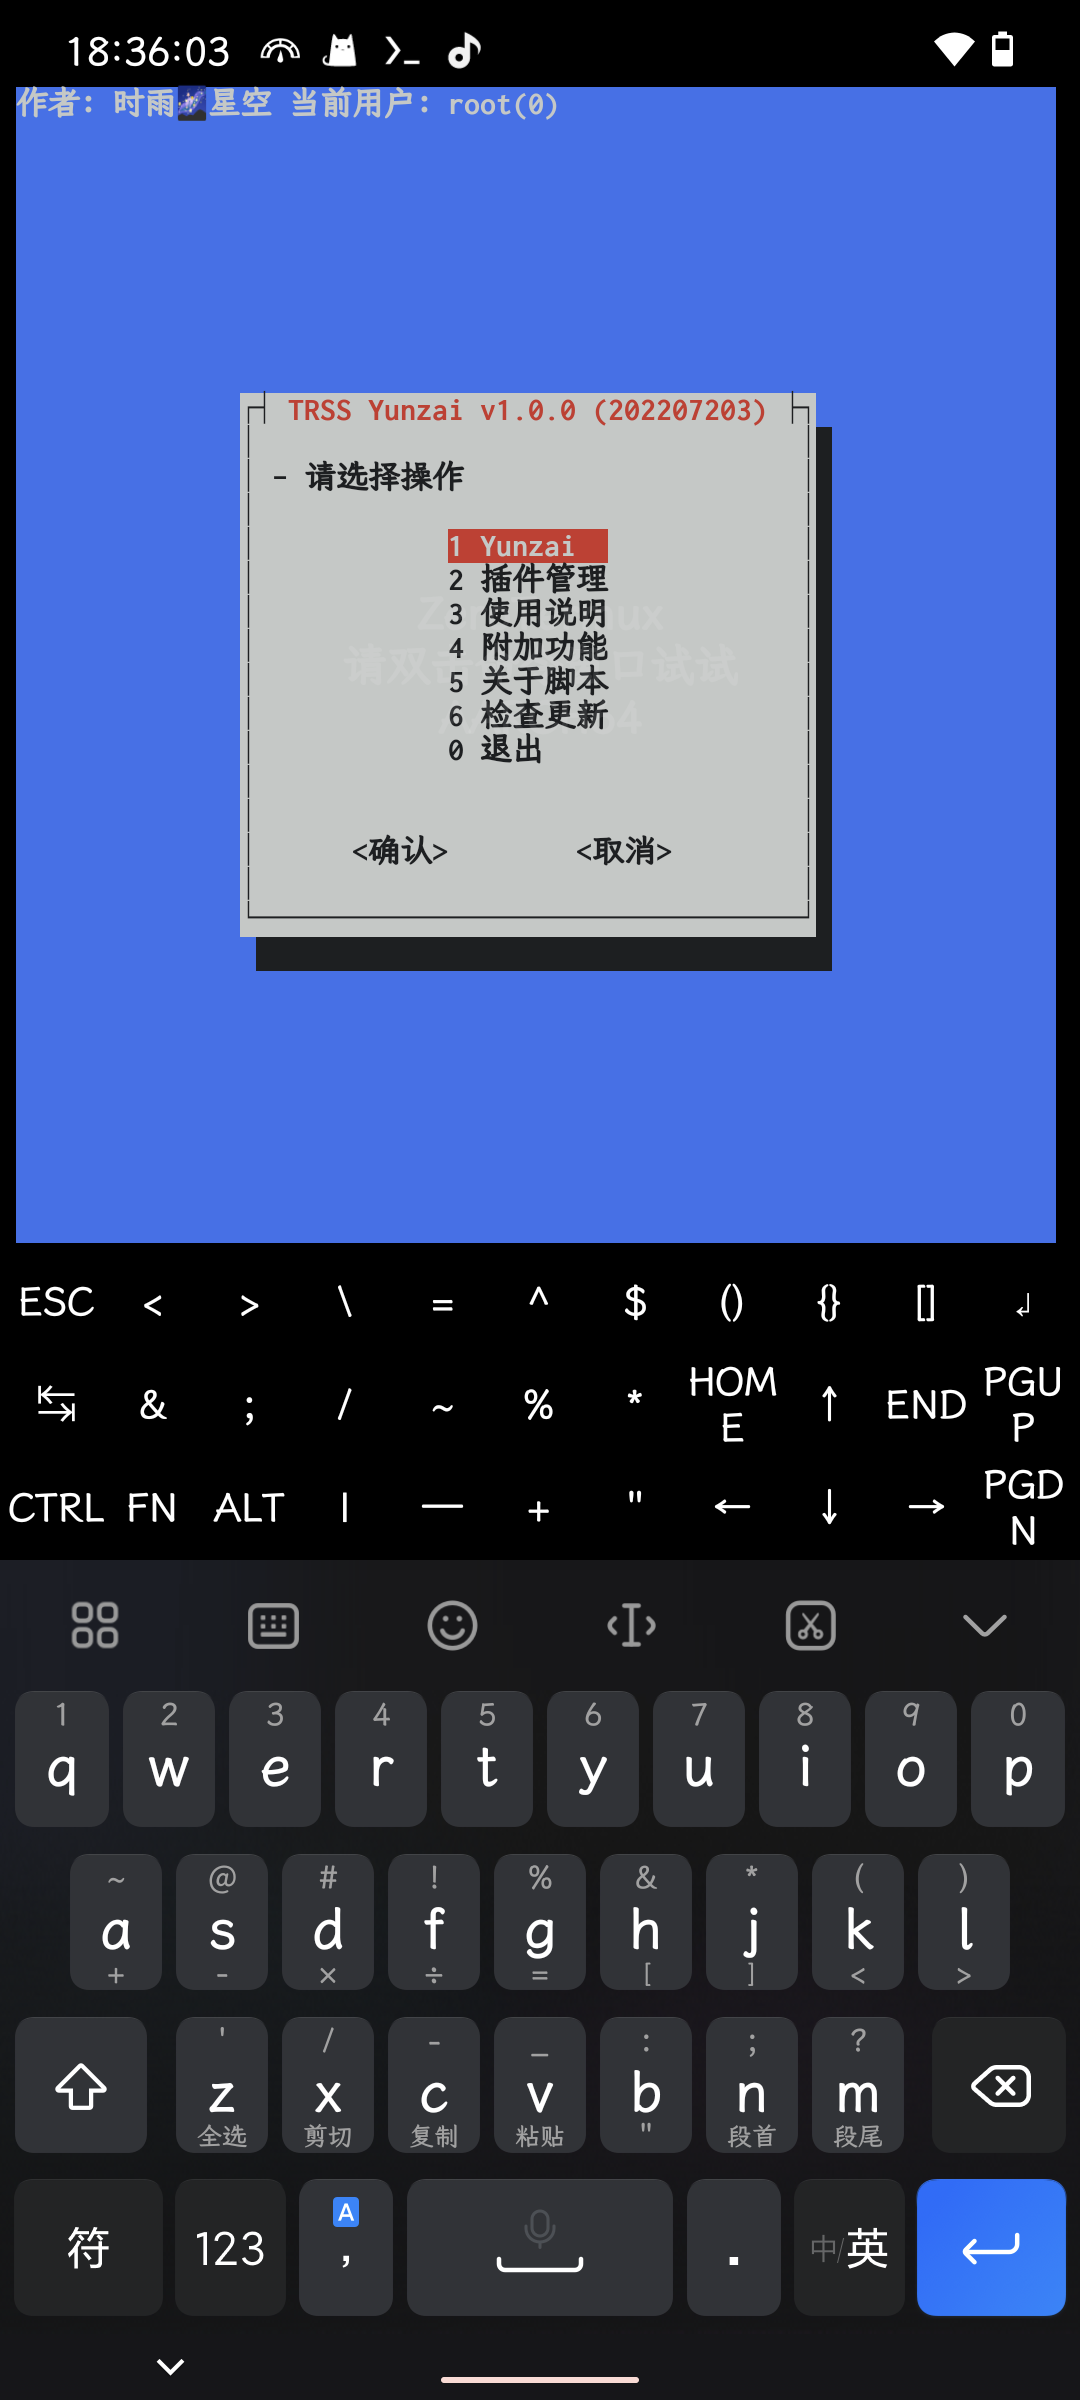
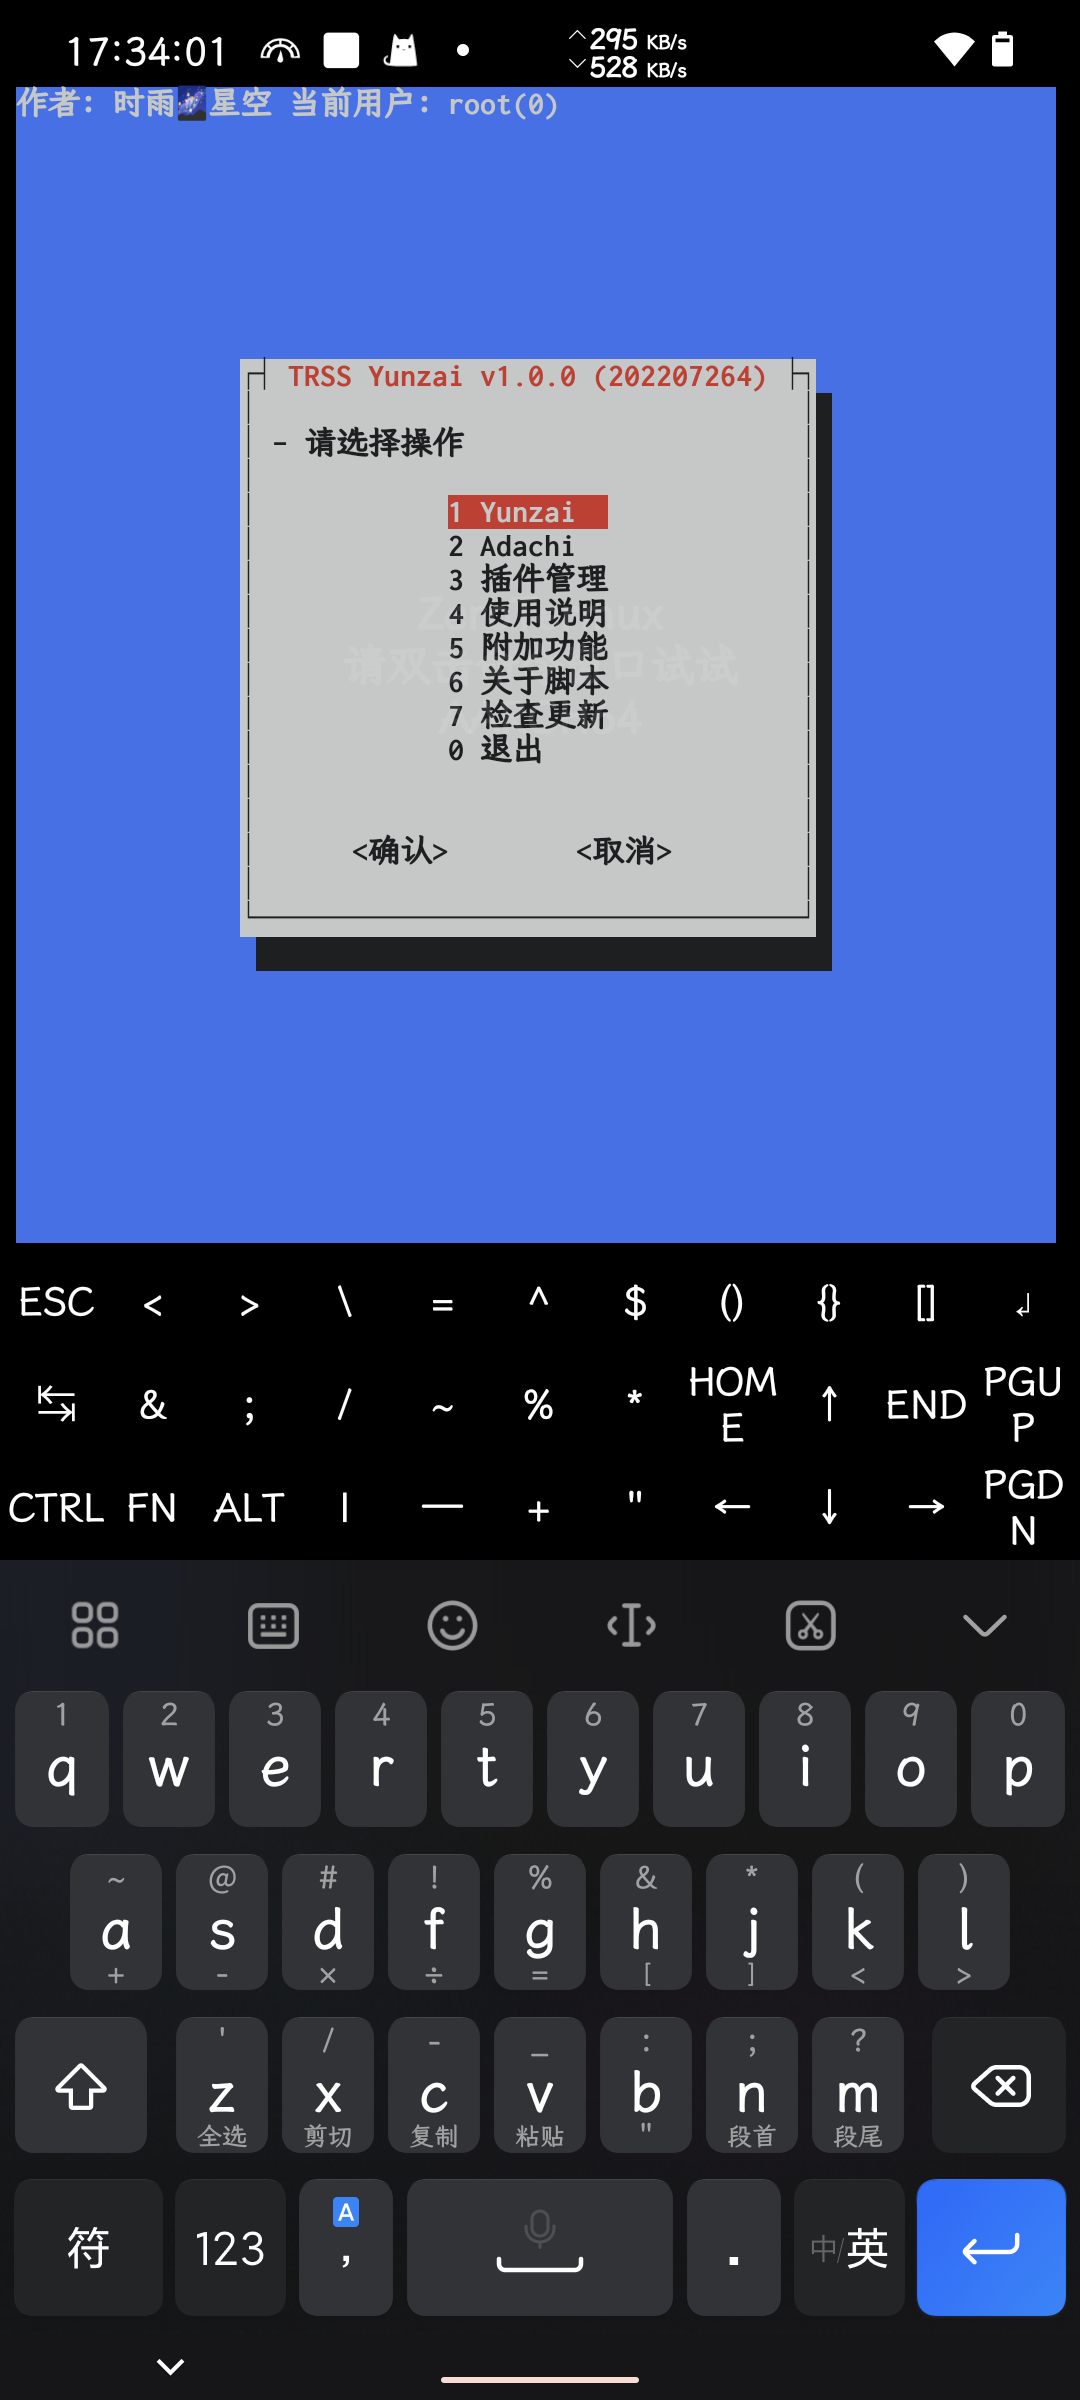
更新说明

diff --git a/README.md b/README.md
@@ -53,6 +53,7 @@ curl -LO "https://gitee.com/TimeRainStarSky/TRSS_Yunzai/raw/main/Install.sh" && 
 [![主界面](https://cdn.jsdelivr.net/gh/TimeRainStarSky/TRSS_Yunzai@main/Picture/Main.png)](https://github.com/TimeRainStarSky/TRSS_Yunzai)
 [![Yunzai2](https://cdn.jsdelivr.net/gh/TimeRainStarSky/TRSS_Yunzai@main/Picture/Yunzai2.png)](https://github.com/TimeRainStarSky/Yunzai-Bot-2)
 [![Yunzai3](https://cdn.jsdelivr.net/gh/TimeRainStarSky/TRSS_Yunzai@main/Picture/Yunzai3.png)](https://github.com/Le-niao/Yunzai-Bot)
+[![Adachi](https://cdn.jsdelivr.net/gh/TimeRainStarSky/TRSS_Yunzai@main/Picture/Adachi.png)](https://docs.adachi.top)
 
 ## 赞助支持
 - 爱发电：<https://afdian.net/@TimeRainStarSky>
